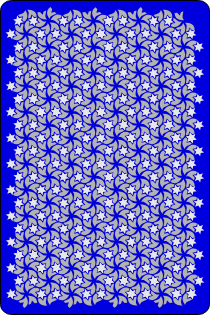
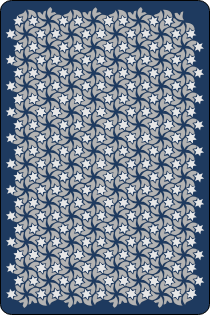
feat: muted navy card back + refresh design spec
Recolor the card back's vibrant blue field to a muted navy (#1e3a5f)
that fits the felt/UI tone, keeping the grayscale floral pattern.
Update the 999.14 design spec to reflect what shipped: jumbo-index deck,
PNG rasterization, navy back, felt surface, contrast fix, and 2:3 sizing.

diff --git a/docs/superpowers/specs/2026-05-29-card-art-visual-overhaul-design.md b/docs/superpowers/specs/2026-05-29-card-art-visual-overhaul-design.md
@@ -1,122 +1,114 @@
 # Design: Card Art & Visual Overhaul (999.14)
 
 **Date:** 2026-05-29
-**Status:** Approved
+**Status:** Implemented (PR #50)
 
 ## Goal
 
-Replace the CSS fallback card rendering and neutral board with a complete visual theme: illustrated card faces (David Bellot's SVG deck), an ornate card back, green felt table surface, and a tonally consistent UI palette. The result should feel like a real card table — professional, atmospheric, and immediately readable as a card game.
+Replace the CSS fallback card rendering and neutral board with a complete visual theme: illustrated card faces, a tonally consistent card back, a green felt table surface, and readable UI text. The result should feel like a real card table — professional, atmospheric, and immediately readable as a card game, including at small/mobile sizes.
 
 ## Non-Goals
 
 - Theme switching UI (acknowledged as future work; architecture supports it without implementing it)
 - Custom-illustrated or commissioned card art
-- Changes to card sizes, layout, zones, drag behavior, game logic, server, or shared types
+- Changes to layout, zones, drag behavior, game logic, server, or shared types
 
 ---
 
 ## Section 1: Card Faces
 
-**Source:** David Bellot's SVG Playing Cards (LGPL license)
-Repository: https://github.com/htdebeer/SVGCards (or the canonical upstream at https://totalnonsense.com/open-source-vector-playing-cards/)
+**Source:** Jumbo Index Playing Cards by Saul Spatz — **CC0 / public domain**.
+- Listing: https://opengameart.org/content/jumbo-index-playing-cards
+- Repo: https://github.com/saulspatz/SVGCards
 
-**Assets:** 52 SVG files committed to `public/cards/bellot/`. Bellot's naming convention uses rank + suit initial (e.g., `1S.svg` = Ace of Spades, `KH.svg` = King of Hearts). The integration layer maps Virtual Deck's internal rank/suit values to these filenames.
+The `Vertical2` variant is used: **two-color** suits (traditional black/red) with a **traditional index** (rank stacked above the suit pip). The jumbo (oversized) corner index is the key property — it stays readable when cards are fanned and overlapped in a hand, including at mobile card sizes. Court cards (J/Q/K) are illustrated figures (Byron Knoll public-domain set).
 
-**Integration:** `CARD_FACE_URL(card)` in `src/card-art.ts` returns `/cards/bellot/{rank}{suit}.svg`. The `CardFace` component already renders an `<img>` when a URL is returned — no component changes needed.
+**Why jumbo index (deviation from the original Bellot plan):** The first implementation used David Bellot's standard-index SVG deck. Its corner indices were too small to read in a fanned hand at mobile sizes, so the deck was swapped for this jumbo-index deck with readability as the deciding requirement.
 
-**Rank mapping** (internal → filename prefix):
-- `A` → `1`
-- `2`–`10` → `2`–`10`
-- `J` → `J` (or `jack` — confirm against Bellot's actual filenames)
-- `Q` → `Q`
-- `K` → `K`
+**Format:** PNG, rasterized from the deck's authoritative sprite sheet. The deck's individual per-card SVGs ship mis-positioned (content lands outside the viewBox and renders blank), and the illustrated court SVGs are very heavy (~1 MB each, ~8 MB total). Rasterizing each card cell from the sprite to a uniform **210×315 PNG** (the deck's native 2:3 cell size) solves both: correct rendering for every card, ~1.2 MB for the whole deck, and instant paint at the 40–60 px display size.
 
-**Suit mapping** (internal → filename suffix):
-- `spades` → `S`
-- `hearts` → `H`
-- `diamonds` → `D`
-- `clubs` → `C`
+**Assets:** 52 card PNGs + `back.png` committed to `public/cards/jumbo/`. Naming: `{suit}{rank}.png` (e.g. `spadeAce.png`, `heart10.png`, `clubKing.png`).
 
-Confirm exact filenames by inspecting the downloaded assets before writing the mapping.
+**Integration:** `CARD_FACE_URL(card)` in `src/card-art.ts` maps internal rank/suit to the filename and returns `${BASE_URL}cards/jumbo/{suit}{rank}.png`. `BASE_URL` (`/virtual-deck/` in production, `/` in tests) is prefixed so assets resolve under GitHub Pages' subpath. `CardFace` already renders an `<img>` when a URL is returned — no component change needed.
+
+**Rank mapping** (internal → filename): `A`→`Ace`, `2`–`10`→`2`–`10`, `J`→`Jack`, `Q`→`Queen`, `K`→`King`.
+**Suit mapping** (internal → filename, singular): `spades`→`spade`, `hearts`→`heart`, `diamonds`→`diamond`, `clubs`→`club`.
 
 ---
 
 ## Section 2: Card Back
 
-**Source:** A public-domain ornate Victorian card back SVG that matches the period feel of Bellot's illustrated courts. Candidate sources: Wikimedia Commons public domain card back illustrations, or a compatible open-source SVG back that ships alongside a Bellot-compatible deck.
+**Source:** The same deck's back design — a grayscale floral pattern over a single solid background field.
 
-**Asset:** A single file committed as `public/cards/bellot/back.svg`.
+**Recolor:** The deck's stock back fields are vibrant (`#0000df` blue / `#ff0000` red), which clashed with the muted felt/UI tone. The blue field was recolored to a **muted navy `#1e3a5f`** during rasterization (a one-line color substitution before capturing the back cell from the sprite), keeping the grayscale floral pattern intact. Navy stays distinct from the green felt while fitting the overall tone.
 
-**Integration:** `CARD_BACK_URL` in `src/card-art.ts` is set to `/cards/bellot/back.svg`. `CardBack` already renders an `<img>` when a URL is set — no component changes needed.
+**Asset:** `public/cards/jumbo/back.png` (210×315).
 
-**Selection criterion:** The back should feel visually cohesive with Bellot's court card style. Avoid backs that feel out of period (modern geometric, flat/minimal). If no suitable open-source back is found, a refined CSS pattern (the current approach, improved) is the fallback.
+**Integration:** `CARD_BACK_URL` = `${BASE_URL}cards/jumbo/back.png`. `CardBack` already renders an `<img>` when a URL is set.
 
 ---
 
 ## Section 3: Table Surface
 
-**Approach:** CSS only — no image asset needed.
+**Approach:** CSS only — no image asset.
 
-**Felt color:** `#2d6a4f` (deep casino green). Applied as the board background.
+**Felt color:** `#2d6a4f` (deep casino green), applied as `bg-felt` on the main board wrapper (`BoardView`) and the canvas play area (`CanvasZone`). The dark top bar (opponent area) and hand zone keep `bg-card`, framing the bright felt center.
 
-**Texture:** A very subtle CSS noise overlay using a repeating SVG data URI or `backdrop-filter` to suggest fabric without a bitmap asset. If this adds complexity, a flat solid color is acceptable — the green alone reads clearly as felt.
-
-**Zone outlines:** `#1b4332` (darker green border). Zones feel carved into the surface rather than floating on it.
-
-**Drag/hover states:** Replace current blue highlight with a lighter green glow (`#52b788` at low opacity) so interactions stay within the palette.
+**Not pursued from the original plan:** felt-textured noise overlay, recoloring zone borders to a darker green, and swapping the amber drag/hover highlight to green. The flat felt reads clearly as a card table on its own, and the existing amber highlight is legible against it.
 
 ---
 
-## Section 4: UI Palette
+## Section 4: UI Palette & Text Contrast
 
-All theme colors are defined as **CSS custom properties** on `:root`. Components reference variables, not hardcoded hex values. This is what makes future theme switching a single class swap rather than a component sweep.
+**Felt theme tokens** are defined as CSS custom properties in the Tailwind v4 `@theme inline` block in `src/globals.css` (there is no `tailwind.config.js`):
 
 ```css
-:root {
-  --color-felt: #2d6a4f;
-  --color-felt-dark: #1b4332;
-  --color-felt-highlight: #52b788;
-  --color-panel-bg: rgba(15, 30, 20, 0.92);
-  --color-panel-border: rgba(82, 183, 136, 0.2);
-  --color-text-primary: #f0ebe0;
-  --color-text-secondary: #b7c4be;
-  --color-accent: #40916c;
-}
+--color-felt: #2d6a4f;        /* applied via bg-felt */
+--color-felt-dark: #1b4332;   /* reserved for future theming */
+--color-felt-highlight: #52b788; /* reserved for future theming */
+--color-panel-bg: rgba(15, 30, 20, 0.92); /* reserved for future theming */
 ```
 
-**Board background:** `var(--color-felt)`
-**Control panels / overlays:** `var(--color-panel-bg)` — dark semi-transparent so the felt shows through subtly
-**Text on dark surfaces:** `var(--color-text-primary)` — warm off-white, slightly warmer than pure white
-**Primary buttons:** `var(--color-accent)` — muted warm green
-**Lobby screen:** Same palette — dark green background, warm off-white type — so the app feels cohesive from entry to table
+Only `--color-felt` is currently applied; the others are reserved tokens that establish the palette for future theme work without committing UI changes now.
+
+**Text contrast fix:** Player names, pile labels, and ghost-button icons use `--muted-foreground`, which at `hsl(220 9% 46%)` was hard to read on the felt. Raised to `hsl(220 14% 72%)`. Disabled button opacity raised `50%`→`60%` so disabled controls stay legible. The existing cool-gray foreground palette and the lobby's `bg-card` treatment were kept (the original "warm off-white" palette and lobby recolor were not pursued).
 
 ---
 
-## Section 5: Asset Organization
+## Section 5: Card Sizing
+
+The deck art is 2:3 (`210×315`, ratio ≈ 0.667). Card slots are sized to match exactly so `object-contain` shows the full card with no crop and no background slivers:
+
+- Mobile (`<640px`): `40×60`
+- Desktop (`sm:`): `60×90`
+
+These are applied in `CardFace`, `CardBack`, `HandZone`, and `OpponentHand`, and mirrored in the canvas geometry constants (`CARD_W`/`CARD_H` and `getCardDimensions` in `src/lib/canvas-utils.ts`) that drive drag/collision math. Images use `object-contain` (no `rounded-md` on the `<img>` — the art carries its own corners).
+
+---
+
+## Section 6: Asset Organization
 
 ```
 public/
   cards/
-    bellot/
-      1S.svg   ← Ace of Spades
-      2S.svg
+    jumbo/
+      spadeAce.png
+      heart10.png
       ...
-      KH.svg   ← King of Hearts
-      back.svg
+      clubKing.png
+      back.png
 ```
 
-The `bellot/` subdirectory anticipates future theme packs (`minimal/`, `dark/`, etc.) without creating any theme infrastructure now. Future `CARD_FACE_URL` implementations point at their own subdirectory.
+The `jumbo/` subdirectory anticipates future theme packs (`minimal/`, `dark/`, etc.) without building any theme infrastructure now. A future `CARD_FACE_URL` points at the active theme's subdirectory.
 
 ---
 
-## Section 6: Future-Proofing (No Scope Added Now)
+## Section 7: Future-Proofing (No Scope Added Now)
 
 When theme selection is added later:
-- `card-art.ts` becomes theme-aware: returns URLs from the active theme's subdirectory
-- CSS variables are overridden by a theme class on `<html>` or `<body>`
-- No component changes required — `CardFace`, `CardBack`, and all board components are already abstracted
-
-Nothing in this spec needs to change when that work happens.
+- `card-art.ts` becomes theme-aware: the `DECK` constant (and the felt CSS tokens) drive the active theme.
+- Reserved felt tokens (`--color-felt-dark`, `--color-felt-highlight`, `--color-panel-bg`) and a theme class on `<html>`/`<body>` can override the palette.
+- No component changes required — `CardFace`, `CardBack`, and all board components are already abstracted behind `card-art.ts` and the `bg-felt` token.
 
 ---
 
@@ -124,10 +116,12 @@ Nothing in this spec needs to change when that work happens.
 
 | File | Change |
 |------|--------|
-| `public/cards/bellot/*.svg` | 52 card face SVGs + `back.svg` (new assets) |
-| `src/card-art.ts` | Implement `CARD_FACE_URL` and `CARD_BACK_URL` with `bellot/` paths |
-| `src/globals.css` | Add CSS custom property definitions; apply felt background to board |
-| `tailwind.config.js` | Extend theme with felt palette colors mapped to CSS variables (e.g., `felt: 'var(--color-felt)'`) so Tailwind utilities like `bg-felt` work |
-| Board/layout component(s) | Apply `bg-felt` (or `var(--color-felt)`) class; update zone border colors |
-| Lobby component(s) | Apply consistent dark-green palette |
-| `.gitignore` | Verify `public/cards/` is not excluded |
+| `public/cards/jumbo/*.png` | 52 card face PNGs + navy `back.png` (rasterized from the jumbo-index sprite) |
+| `src/card-art.ts` | `CARD_FACE_URL`/`CARD_BACK_URL` map to `jumbo/` PNG paths, `BASE_URL`-prefixed |
+| `src/globals.css` | Felt theme tokens in `@theme inline`; raised `--muted-foreground` contrast |
+| `src/components/BoardView.tsx`, `CanvasZone.tsx` | `bg-background` → `bg-felt` on the play surface |
+| `src/components/CardFace.tsx`, `CardBack.tsx`, `HandZone.tsx`, `OpponentHand.tsx` | Card slot sizing `40×60` / `60×90`; `object-contain` |
+| `src/components/ui/button.tsx` | Disabled opacity `50%` → `60%` |
+| `src/lib/canvas-utils.ts` | `CARD_W=60`, `CARD_H=90`, mobile `40×60` |
+| `tests/card-art.test.ts`, `tests/overlapUtils.test.ts` | Updated for jumbo paths and new card dimensions |
+| `playwright/game.spec.ts`, `mobile.spec.ts` | Hand-zone assertions use `[aria-pressed]` count (img cards have no text) |